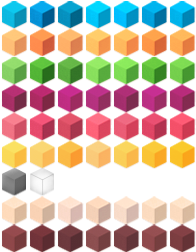
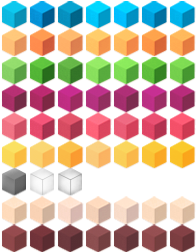
add more colors update preview for transparent blocks

Changed region(s): [[0.2755, 0.6667, 0.4286, 0.7778]]

diff --git a/index.html b/index.html
@@ -1,4 +1,8 @@
-<!DOCTYPE html>
+<!doctype html>
+<!--[if lt IE 7]> <html itemscope itemtype="http://schema.org/Product" class="no-js ie6 oldie" lang="en"> <![endif]-->
+<!--[if IE 7]>    <html itemscope itemtype="http://schema.org/Product" class="no-js ie7 oldie" lang="en"> <![endif]-->
+<!--[if IE 8]>    <html itemscope itemtype="http://schema.org/Product" class="no-js ie8 oldie" lang="en"> <![endif]-->
+<!--[if IE 9]>    <html itemscope itemtype="http://schema.org/Product" class="no-js ie9" lang="en"> <![endif]-->
 <html>
 	<head>
 		<title>Isometric Block Editor</title>
@@ -7,6 +11,12 @@
 		<link rel="stylesheet" href="css/blocks.css" />
 	</head>
 	<body>
+		<!--[if lte IE 9]><article class="browser-warning">
+			<strong>Unsupported Browser</strong> You are using an unsupported browser. The application may become unresponsive, show errors or not work at all.
+			Please upgrade or change your browser.
+		</article><![endif]-->
+		</div>
+		
 		<a href="#" class="gallery-button gallery-toggle">Show Editor</a>
 		<article class="gallery-info">
 			<h1 class="sketch-name"></h1>
@@ -89,7 +99,18 @@
 						<li>In delete mode, hold <code>shift</code> while dragging to select multiple blocks.</li>
 						<li>In delete mode, press <code>backspace</code> to delete selected blocks.</li>
 					</ul>
-					<p>Mac users can use the <code>cmd</code> key instead of <code>ctrl</code> for shortcuts.</p>
+				</div>
+				<div class="help-keyboard-shortcuts">
+					<h1>Pro Tips</h1>
+					<ul>
+						<li>
+							You can use transparent blocks to build hovering objects. Just build an object as you normally would 
+							and then click "Delete Blocks" / "Delete transparent blocks".
+						</li>
+						<li>
+							Mac users can use the <code>cmd</code> key instead of <code>ctrl</code> for shortcuts.
+						</li>
+					</ul>
 				</div>
 				<p>If you want to show add your sketch to our gallery, send it to blocksbuilder@bigspaceship.com</p>
 				<p>In this case, please make sure your model has no more than 700 blocks.</p>
@@ -155,12 +176,15 @@
 			<div class="color-buttons">
 				<h1>Block Color</h1>
 				<ul>
-					<li><a href="#" id="color-button-yellow">yellow</a></li>
-					<li><a href="#" id="color-button-blue">blue</a></li>
-					<li><a href="#" id="color-button-pink">pink</a></li>
-					<li><a href="#" id="color-button-green">green</a></li>
-					<li><a href="#" id="color-button-red">red</a></li>
-					<li><a href="#" id="color-button-transparent">transparent</a></li>
+					<li><a href="#" class="color-yellow"id="color-button-yellow">yellow</a></li>
+					<li><a href="#" class="color-orange"id="color-button-orange">orange</a></li>
+					<li><a href="#" class="color-red"id="color-button-red">red</a></li>
+					<li><a href="#" class="color-blue"id="color-button-blue">blue</a></li>
+					<li><a href="#" class="color-pink"id="color-button-pink">pink</a></li>
+					<li><a href="#" class="color-brown"id="color-button-brown">brown</a></li>
+					<li><a href="#" class="color-green"id="color-button-green">green</a></li>
+					<li><a href="#" class="color-white"id="color-button-white">white</a></li>
+					<li><a href="#" class="color-transparent"id="color-button-transparent">transparent</a></li>
 				</ul>
 			</div>
 			<div class="history-buttons">

diff --git a/css/stylesheet.css b/css/stylesheet.css
@@ -19,6 +19,19 @@ body
 	position: relative;
 }
 
+.browser-warning
+{
+	display: block;
+	width: 100%;
+	height: 30px;
+	line-height: 30px;
+	text-align: center;
+	color: #333;
+	background: #fff;
+	position: absolute;
+	z-index: 200;
+}
+
 #cursor
 {
 	display: block;
@@ -50,12 +63,19 @@ body
 
 	.block.preview
 	{
-		opacity: 0.4;
+		opacity: 0.6;
+	}
+
+	.block.preview.color-transparent
+	{
+		opacity: 0.8;
+		background-position: -56px -168px;
 	}
 
 	#blocks.no-preview .block.preview
 	{
 		display: none;
+
 	}
 
 	#blocks.no-preview #cursor
@@ -417,7 +437,6 @@ nav
 	{
 		background-image: url(../images/blocks.png);
 		background-repeat: no-repeat;
-		background-position: center;
 		display: block;
 		text-indent: -5000px;
 		overflow: hidden;
@@ -480,41 +499,6 @@ nav
 	float: right;
 }
 	
-#color-button-red
-{
-	background-position: 0 -112px;
-}
-	
-#color-button-green
-{
-	background-position: 0 -56px;
-}
-
-#color-button-pink
-{
-	background-position: 0 -84px;
-}
-
-#color-button-blue
-{
-	background-position: 0 0;
-}
-
-#color-button-yellow
-{
-	background-position: 0 -140px;
-}
-
-#color-button-orange
-{
-	background-position: 0 -28px;
-}
-
-#color-button-transparent
-{
-	background-position: -28px -168px;
-}
-
 .block.selected
 {
 	background-position: 0 -168px;

diff --git a/css/blocks.css b/css/blocks.css
@@ -39,6 +39,16 @@
 	background-position: 0 0;
 }
 
+.color-brown
+{
+	background-position: 0 -225px;
+}
+
+.color-white
+{
+	background-position: 0 -196px;
+}
+
 .color-yellow
 {
 	background-position: 0 -140px;

diff --git a/javascript/application/canvas.js b/javascript/application/canvas.js
@@ -221,8 +221,6 @@ function Canvas()
 		{
 			_shift_pressed = $event.shiftKey;
 
-			console.log( $event );
-
 			if ( _mode === 'single' && _mouse_on_canvas )
 			{
 				if ( ! $( '.block.preview' ).length )

diff --git a/javascript/application/editor.js b/javascript/application/editor.js
@@ -29,7 +29,7 @@ function Editor()
 
 	var _active = false;
 
-	var _number_keys = [49, 50, 51, 52, 53, 54]
+	var _number_keys = [49, 50, 51, 52, 53, 54, 55, 56, 57, 48]
 
 	function init()
 	{
